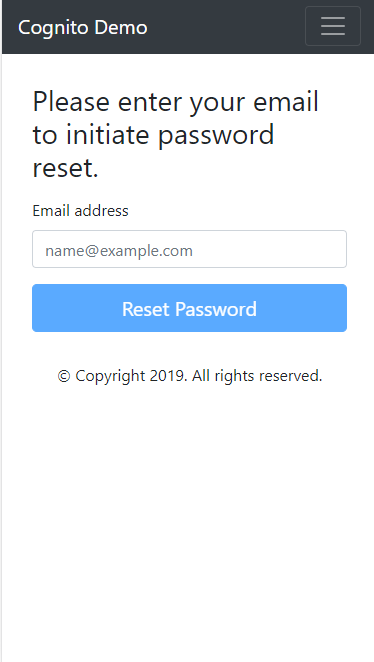
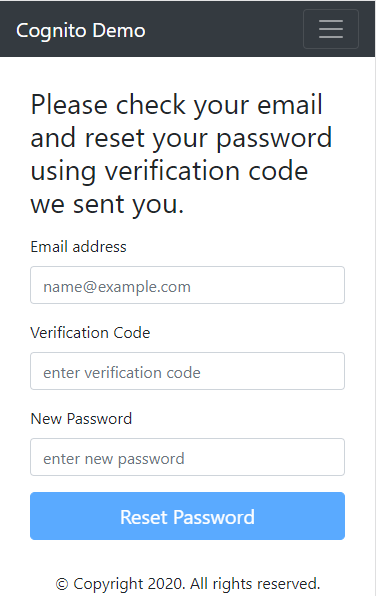
added screens to the readme

diff --git a/src/app/services/auth.service.ts b/src/app/services/auth.service.ts
@@ -3,12 +3,14 @@ import { HttpClient, HttpHeaders } from '@angular/common/http';
 import { StorageService } from './storage.service';
 import { Subject } from 'rxjs';
 import { Router } from '@angular/router';
+import { environment } from '../../environments/environment';
+
 
 @Injectable({
   providedIn: 'root'
 })
 export class AuthService { 
-  baseURL: string = "http://localhost:8000/api/";
+  baseURL: string = environment.apiUrl;
   public isLoggedIn = new Subject();;
 
   constructor(private http: HttpClient, private storageService: StorageService, private router: Router) { }

diff --git a/src/environments/environment.ts b/src/environments/environment.ts
@@ -3,7 +3,8 @@
 // The list of file replacements can be found in `angular.json`.
 
 export const environment = {
-  production: false
+  production: false,
+  apiUrl : "http://localhost:8000/api/"
 };
 
 /*

diff --git a/src/app/footer/footer.component.html b/src/app/footer/footer.component.html
@@ -1,3 +1,3 @@
 <footer>
-    <p  class="text-xs-center">© Copyright 2019. All rights reserved.</p>
+    <p  class="text-xs-center">© Copyright 2020. All rights reserved.</p>
   </footer>

diff --git a/src/environments/environment.prod.ts b/src/environments/environment.prod.ts
@@ -1,3 +1,4 @@
 export const environment = {
-  production: true
+  production: true,
+  apiUrl : "http://54.144.27.239:8000/api/"
 };

diff --git a/README.md b/README.md
@@ -1,7 +1,25 @@
-# CognitoUi
+# CognitoUi - AWS Cognito User Authentication Angular App
 
 This project was generated with [Angular CLI](https://github.com/angular/angular-cli) version 10.0.2. \
-It is a showcase of using cognito as an authentication service with a nodejs backend. 
+It is a showcase of using [aws cognito](https://aws.amazon.com/cognito/) as an authentication service with a [nodejs backend](https://github.com/micromin/cognito-auth). 
+As you may know, Amazon Cognito lets you add user sign-up, sign-in, and access control to your web and mobile apps quickly and easily.
+
+I hope, this project can be used as a starter for your next idea.
+
+## Pages
+- signup
+- login
+- change password
+- reset password initiate
+- confirm user email
+- resend email confirmation
+
+## Screens
+![alt text](screens/signup.PNG)
+![alt text](screens/login.PNG)
+![alt text](screens/confirm-user.PNG)
+![alt text](screens/forgot-password.PNG)
+![alt text](screens/reset-password.PNG)
 
 ## Running server
 
